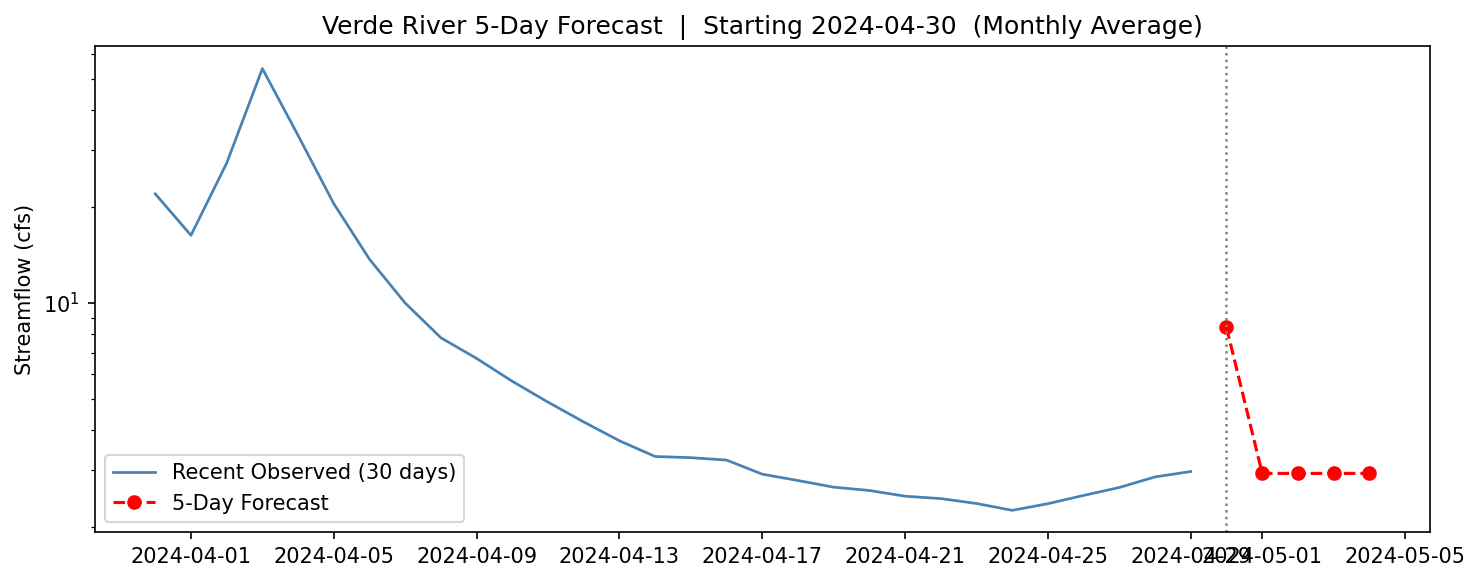
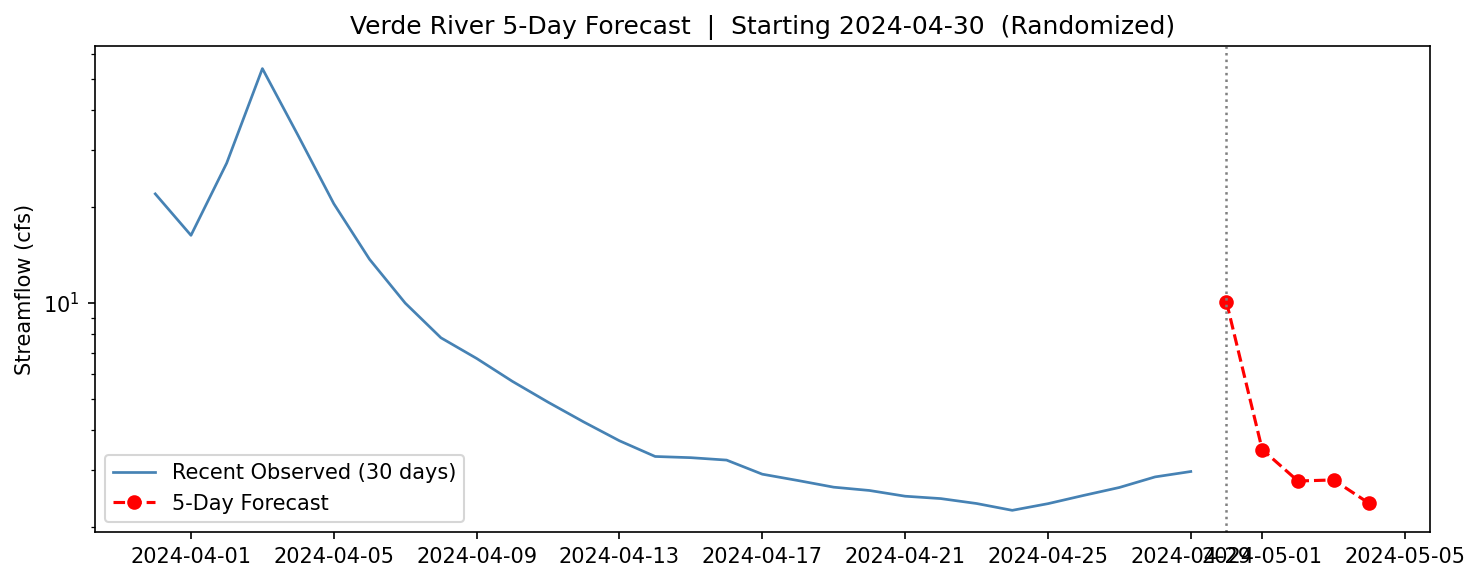
04292026

Changed region(s): [[0.2176, 0.0309, 0.8081, 0.0619], [0.8392, 0.6804, 0.9324, 0.866], [0.8081, 0.4948, 0.8392, 0.6186]]

diff --git a/generate_forecast.py b/generate_forecast.py
@@ -13,6 +13,7 @@ import matplotlib.pyplot as plt
 import hf_hydrodata
 from forecast_functions import (
     get_recent_data,
+    make_5day_forecast_randomized,
     make_5day_forecast_monthly,
     make_5day_forecast_longterm,
     load_model,
@@ -24,7 +25,7 @@ parser.add_argument('--pin',           required=True)
 parser.add_argument('--gauge-id',      default='09506000')
 parser.add_argument('--ar-order',      type=int, default=7)
 parser.add_argument('--forecast-date', default='2024-04-30')
-parser.add_argument('--model',         default='monthly_avg', choices=['monthly_avg'])
+parser.add_argument('--model',         default='randomized', choices=['randomized'])
 args = parser.parse_args()
 
 forecast_date_ts = pd.Timestamp(args.forecast_date)
@@ -57,7 +58,19 @@ elif args.model == 'monthly_avg':
     print("\n--- Step 3: Generate 5-day monthly average forecast ---")
     forecast_df = make_5day_forecast_monthly(monthly_means, args.forecast_date)
     model_label = 'Monthly Average'    
-
+elif args.model == 'randomized':
+    print("\n--- Step 2: Load monthly average model ---")
+    monthly_means = load_model()
+    if not isinstance(monthly_means, dict):
+        raise TypeError(
+            "saved_model.pkl does not contain a monthly_avg model. "
+            "Re-run train_model.py with --refit True --model monthly_avg first."
+        )
+    print("\n--- Step 3: Generate 5-day randomized forecast ---")
+    forecast_df = make_5day_forecast_randomized(monthly_means, args.forecast_date)
+    model_label = 'Randomized'
+else:
+    raise ValueError(f"Unsupported model type: {args.model}")
 print(f"\n  5-Day Streamflow Forecast — Verde River ({model_label})")
 print(f"  Starting: {forecast_date_ts.date()}\n")
 print(f"  {'Date':<14}  Forecast (cfs)")

diff --git a/train_model.py b/train_model.py
@@ -31,7 +31,7 @@ parser.add_argument('--train-start', default='1990-01-01')
 parser.add_argument('--train-end',   default='2022-12-31')
 parser.add_argument('--test-start',  default='2023-01-01')
 parser.add_argument('--test-end',    default='2024-12-31')
-parser.add_argument('--model',       default= 'monthly_avg', choices=['monthly_avg'])
+parser.add_argument('--model',       default= 'randomized', choices=['monthly_avg', 'randomized', 'longterm_avg'])
 parser.add_argument('--refit',       default='True')
 parser.add_argument('--validate',    default='True')
 args = parser.parse_args()
@@ -69,6 +69,23 @@ elif args.model == 'monthly_avg':
                 "saved_model.pkl does not contain a monthly_avg model. "
                 "Re-run with --refit True --model monthly_avg to train one."
             )
+elif args.model == 'randomized':
+    print("\n--- Step 2: Fit monthly average model (for randomized forecasts) ---─")
+    if REFIT_MODEL or not os.path.exists('saved_model.pkl'):
+        monthly_means = fit_monthly_avg_model(train)
+        print("  Monthly means (cfs):")
+        for month in range(1, 13):
+            print(f"    Month {month:02d}: {monthly_means.get(month, np.nan):.2f}")
+        save_model(monthly_means)
+    else:
+        monthly_means = load_model()
+        if not isinstance(monthly_means, dict):
+            raise TypeError(
+                "saved_model.pkl does not contain a monthly_avg model. "
+                "Re-run with --refit True --model monthly_avg to train one."
+            )
+else:
+    raise ValueError(f"Unsupported model type: {args.model}")
 
     if RUN_VALIDATION:
         print("\n--- Step 3: Validate on test period ---")

diff --git a/forecast_functions.py b/forecast_functions.py
@@ -102,6 +102,15 @@ def make_5day_forecast_monthly(monthly_means, forecast_date, n_days=5):
     month_means = [monthly_means.get(date.month, np.nan) for date in dates]
     return pd.DataFrame({'Forecast_cfs': month_means}, index=dates)
 
+def make_5day_forecast_randomized(monthly_means, forecast_date, n_days=5):
+    """Return DataFrame with randomized forecasts based on monthly means."""
+    forecast_ts = pd.Timestamp(forecast_date)
+    dates = pd.date_range(start=forecast_ts, periods=n_days, freq='D')
+    month_means = [monthly_means.get(date.month, np.nan) for date in dates]
+    # Add random noise (e.g., 20% of the monthly mean) to create variability
+    randomized = [max(0, mean * (1 + np.random.uniform(-0.2, 0.2))) for mean in month_means]
+    return pd.DataFrame({'Forecast_cfs': randomized}, index=dates)
+
 
 def make_5day_forecast_longterm(mean_flow, forecast_date, n_days=5):
     """Return DataFrame with the long-term mean flow for every forecast day."""
